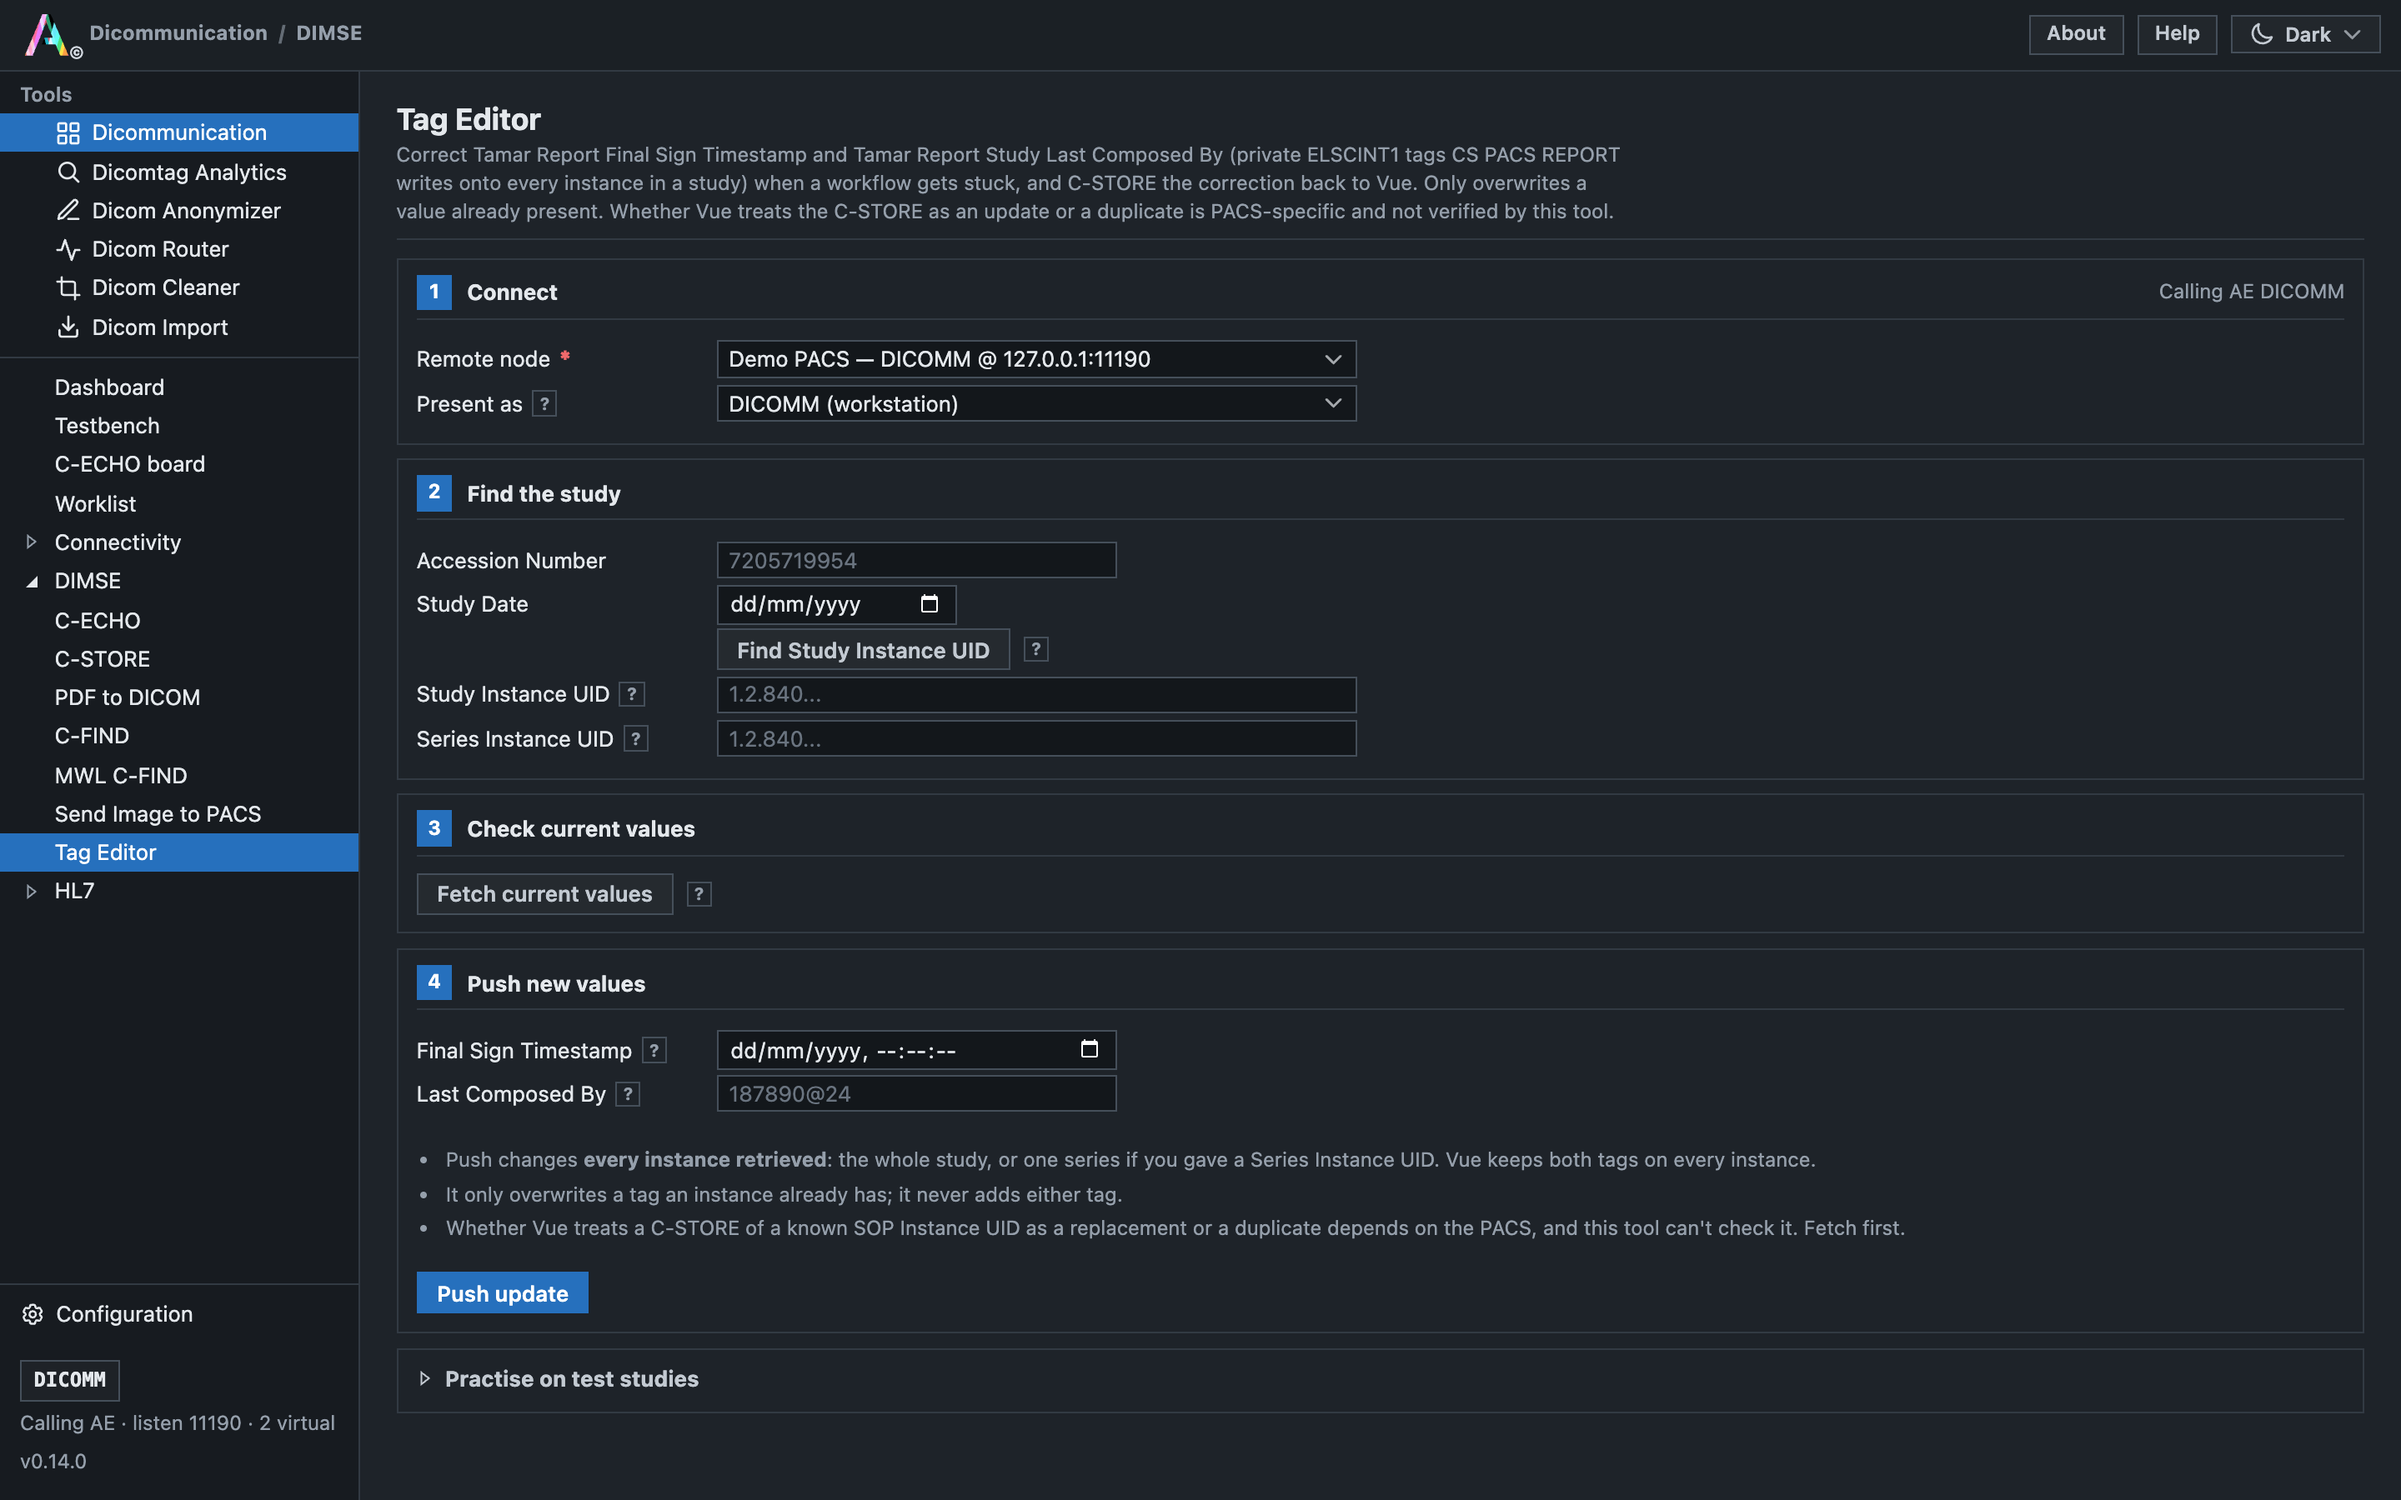
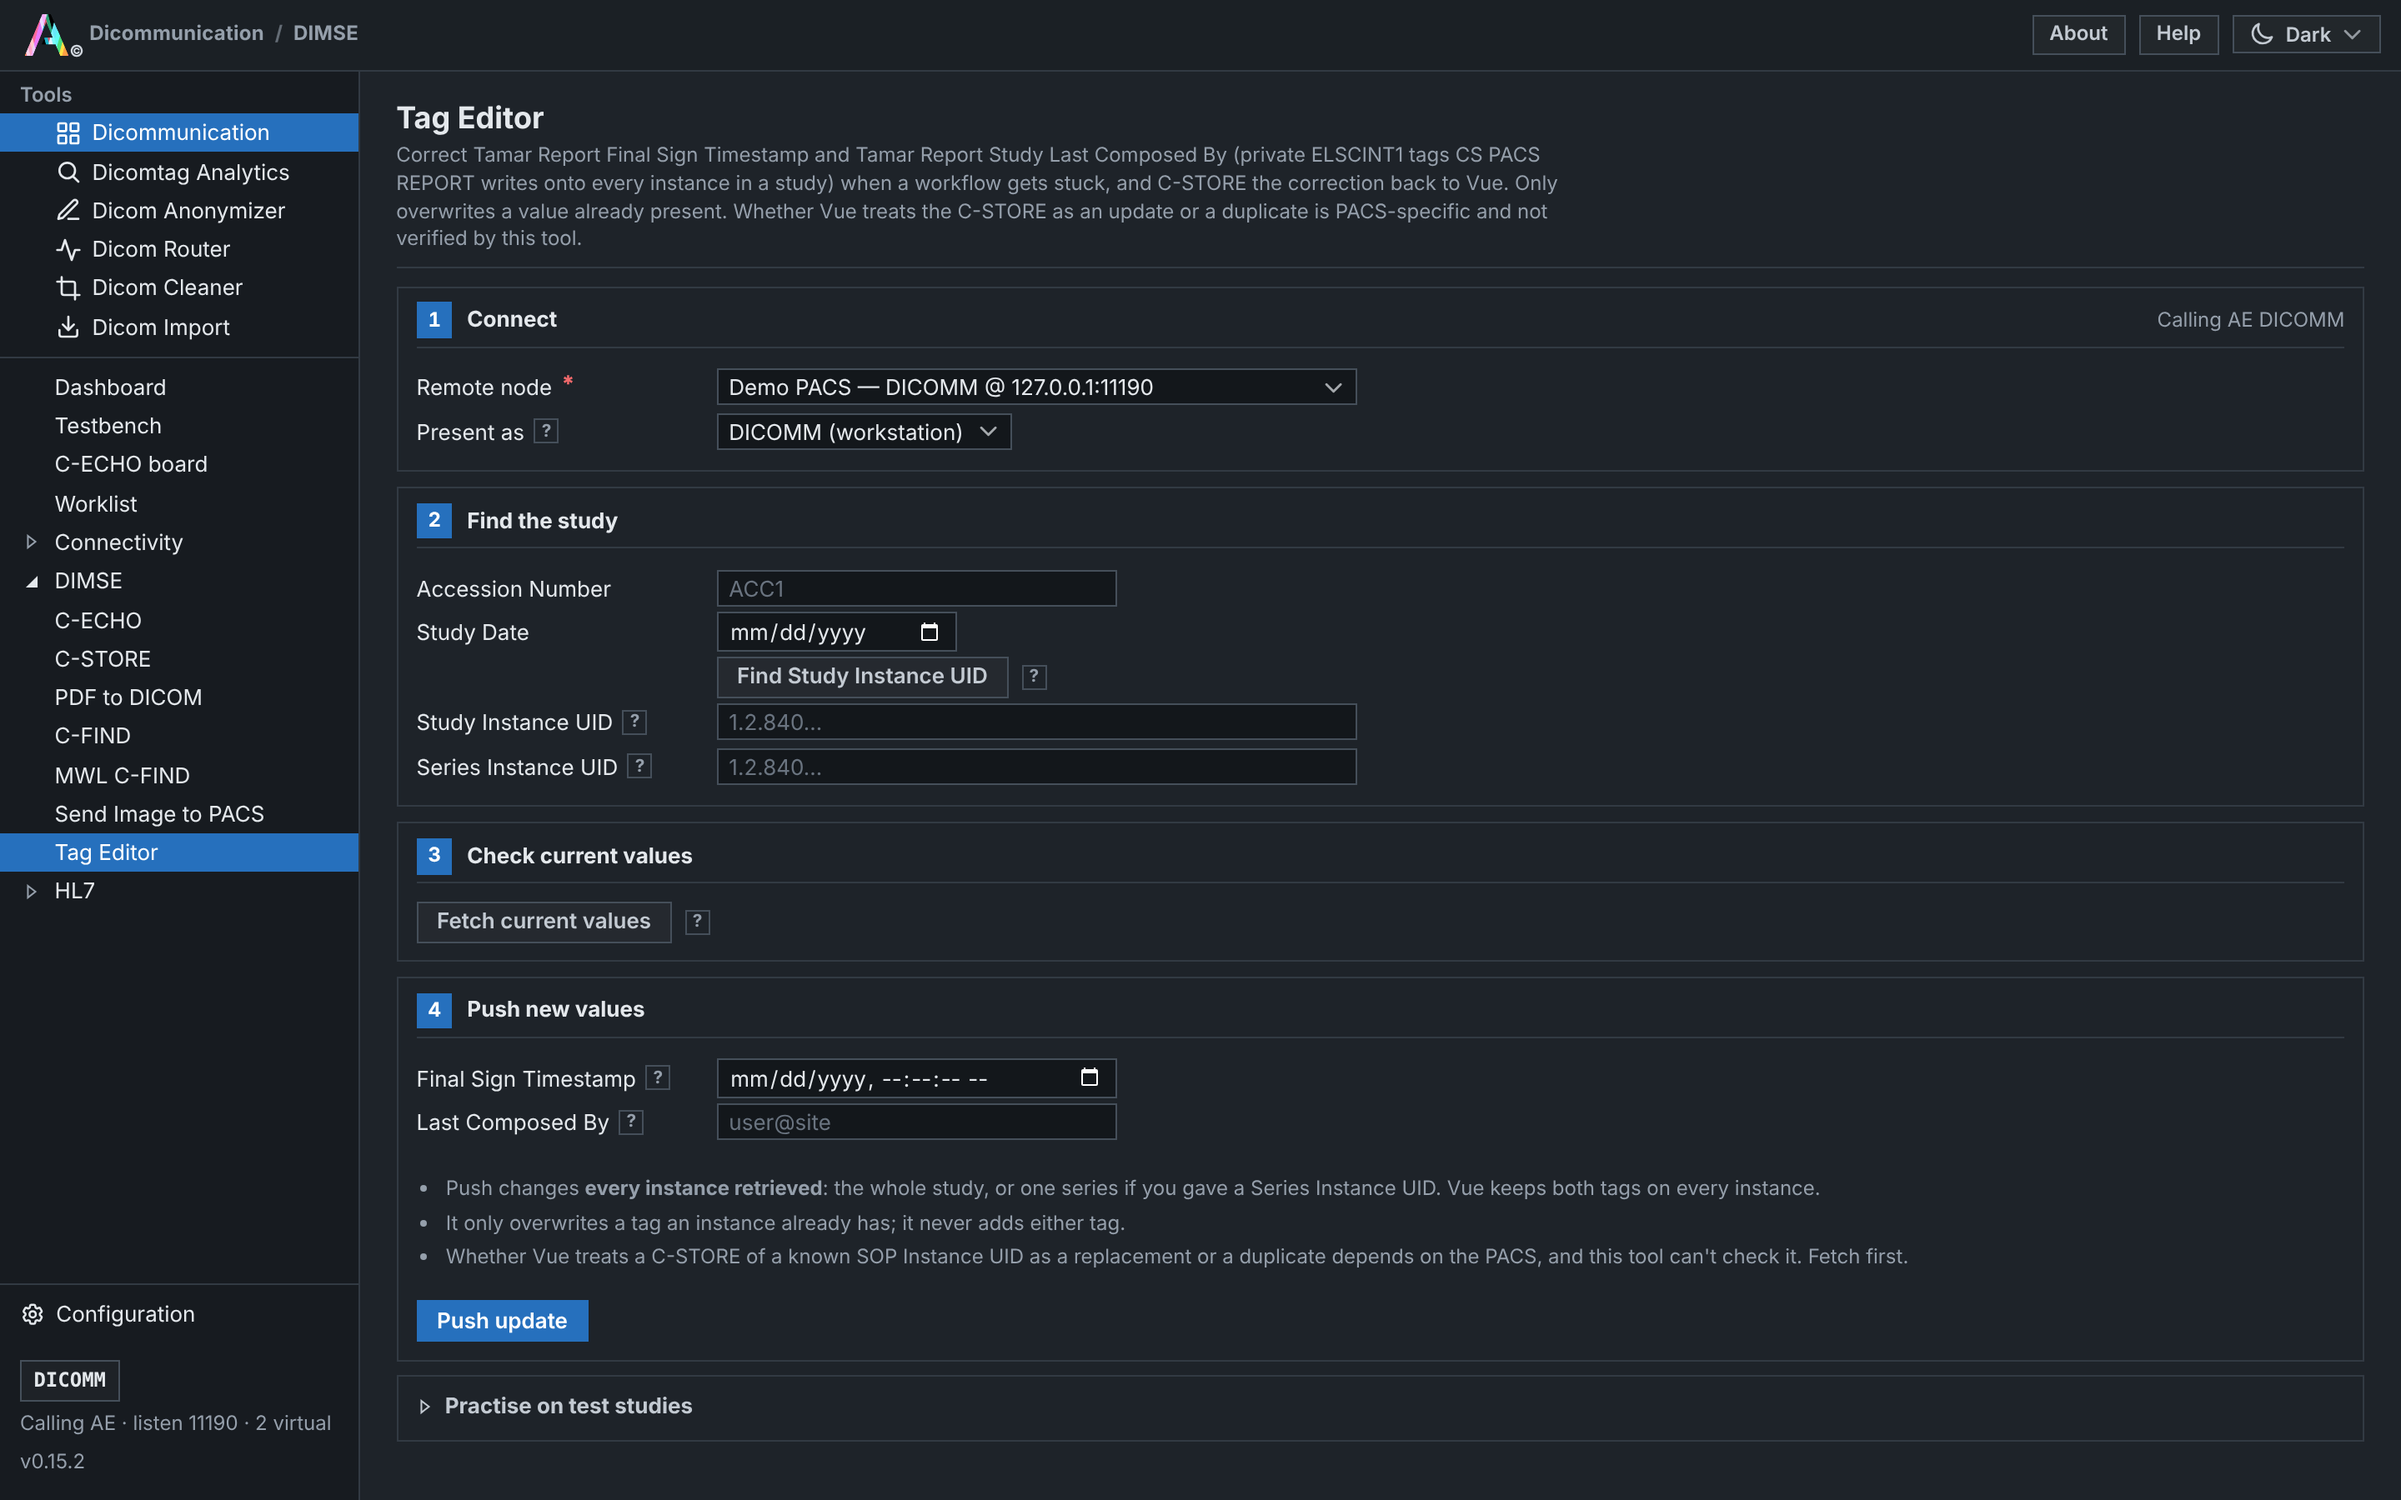
Tag Editor: example values that do not look like real data
Accession Number and Last Composed By hints were a 10-digit number and a user-id lookalike; now ACC1 and user@site. Screenshots retaken, Remote node name hint no longer says production.

Claude-Session: https://claude.ai/code/session_01Vpoz9s3ghEVHXSjnLFH7ed

diff --git a/app/templates/tag_editor.html b/app/templates/tag_editor.html
@@ -39,7 +39,7 @@
     </header>
     <div class="fields">
       {% call field("Accession Number", "te-acc") %}
-      <input id="te-acc" class="w-md" type="text" name="accession_number" value="{{ accession_number|default('') }}" placeholder="7205719954">
+      <input id="te-acc" class="w-md" type="text" name="accession_number" value="{{ accession_number|default('') }}" placeholder="ACC1">
       {% endcall %}
       {% call field("Study Date", "te-date") %}
       <input id="te-date" class="w-sm" type="date" name="study_date" value="{{ study_date|default('') }}">
@@ -81,7 +81,7 @@
       <input id="te-sign" class="w-md" type="datetime-local" name="final_sign_timestamp" step="1" value="{{ final_sign_timestamp|default('') }}">
       {% endcall %}
       {% call field("Last Composed By", "te-composed", "Tamar Report Study Last Composed By.") %}
-      <input id="te-composed" class="w-md" type="text" name="last_composed_by" maxlength="64" value="{{ last_composed_by|default('') }}" placeholder="187890@24">
+      <input id="te-composed" class="w-md" type="text" name="last_composed_by" maxlength="64" value="{{ last_composed_by|default('') }}" placeholder="user@site">
       {% endcall %}
     </div>
     <ul class="push-notes">

diff --git a/app/templates/config_remotes.html b/app/templates/config_remotes.html
@@ -23,7 +23,7 @@
     <input type="hidden" name="remote_id" value="{{ editing.id }}">
     {% endif %}
     {% call field("Display name", "name", required=True) %}
-    <input id="name" name="name" class="w-md" required placeholder="PACS production" value="{{ editing.name if editing else '' }}">
+    <input id="name" name="name" class="w-md" required placeholder="Main PACS" value="{{ editing.name if editing else '' }}">
     {% endcall %}
     {% call field("AE Title", "ae_title", required=True) %}
     <input id="ae_title" name="ae_title" class="w-sm" maxlength="16" required placeholder="ORTHANC" value="{{ editing.ae_title if editing else '' }}">

diff --git a/tests/test_tag_editor.py b/tests/test_tag_editor.py
@@ -282,7 +282,7 @@ def test_lookup_requires_accession_and_date() -> None:
     result = TagEditorTool().run(
         LocalAE(ae_title="DICOMM", timeout_seconds=2),
         remote,
-        {"action": "lookup", "accession_number": "7205719954"},
+        {"action": "lookup", "accession_number": "ACC1234567"},
     )
     assert result.ok is False
     assert "Accession Number and Study Date are both required" in result.summary
@@ -294,7 +294,7 @@ def test_lookup_resolves_a_single_matching_study() -> None:
         port,
         [
             {
-                "AccessionNumber": "7205719954",
+                "AccessionNumber": "ACC1234567",
                 "StudyDate": "20260902",
                 "StudyInstanceUID": "1.2.3.99887766",
                 "PatientName": "MADURO-MARTHA^E",
@@ -311,7 +311,7 @@ def test_lookup_resolves_a_single_matching_study() -> None:
             remote,
             {
                 "action": "lookup",
-                "accession_number": "7205719954",
+                "accession_number": "ACC1234567",
                 "study_date": "2026-09-02",
             },
         )

diff --git a/CHANGELOG.md b/CHANGELOG.md
@@ -4,6 +4,7 @@
 
 ### Changes
 
+- **The example values in the Tag Editor no longer look like real data.** The grey hint in Accession Number was a 10-digit number and the one in Last Composed By looked like a user id; they now read `ACC1` and `user@site`, and the Tag Editor screenshots are retaken. The Name hint on the Remote nodes page no longer says "PACS production". The rest of the app was checked for placeholders, default values and sample data that look like production values; the other hints are generic (`DOE^JANE`, `ACC1`, `CT`).
 - **The macOS DMG is no longer built automatically when a version tag is pushed.** Start **Actions → macOS DMG → Run workflow** yourself, like the Windows MSI: run it on the `v*` tag to attach the DMG to that release, or on a branch for a test build.
 
 ## 0.15.2
